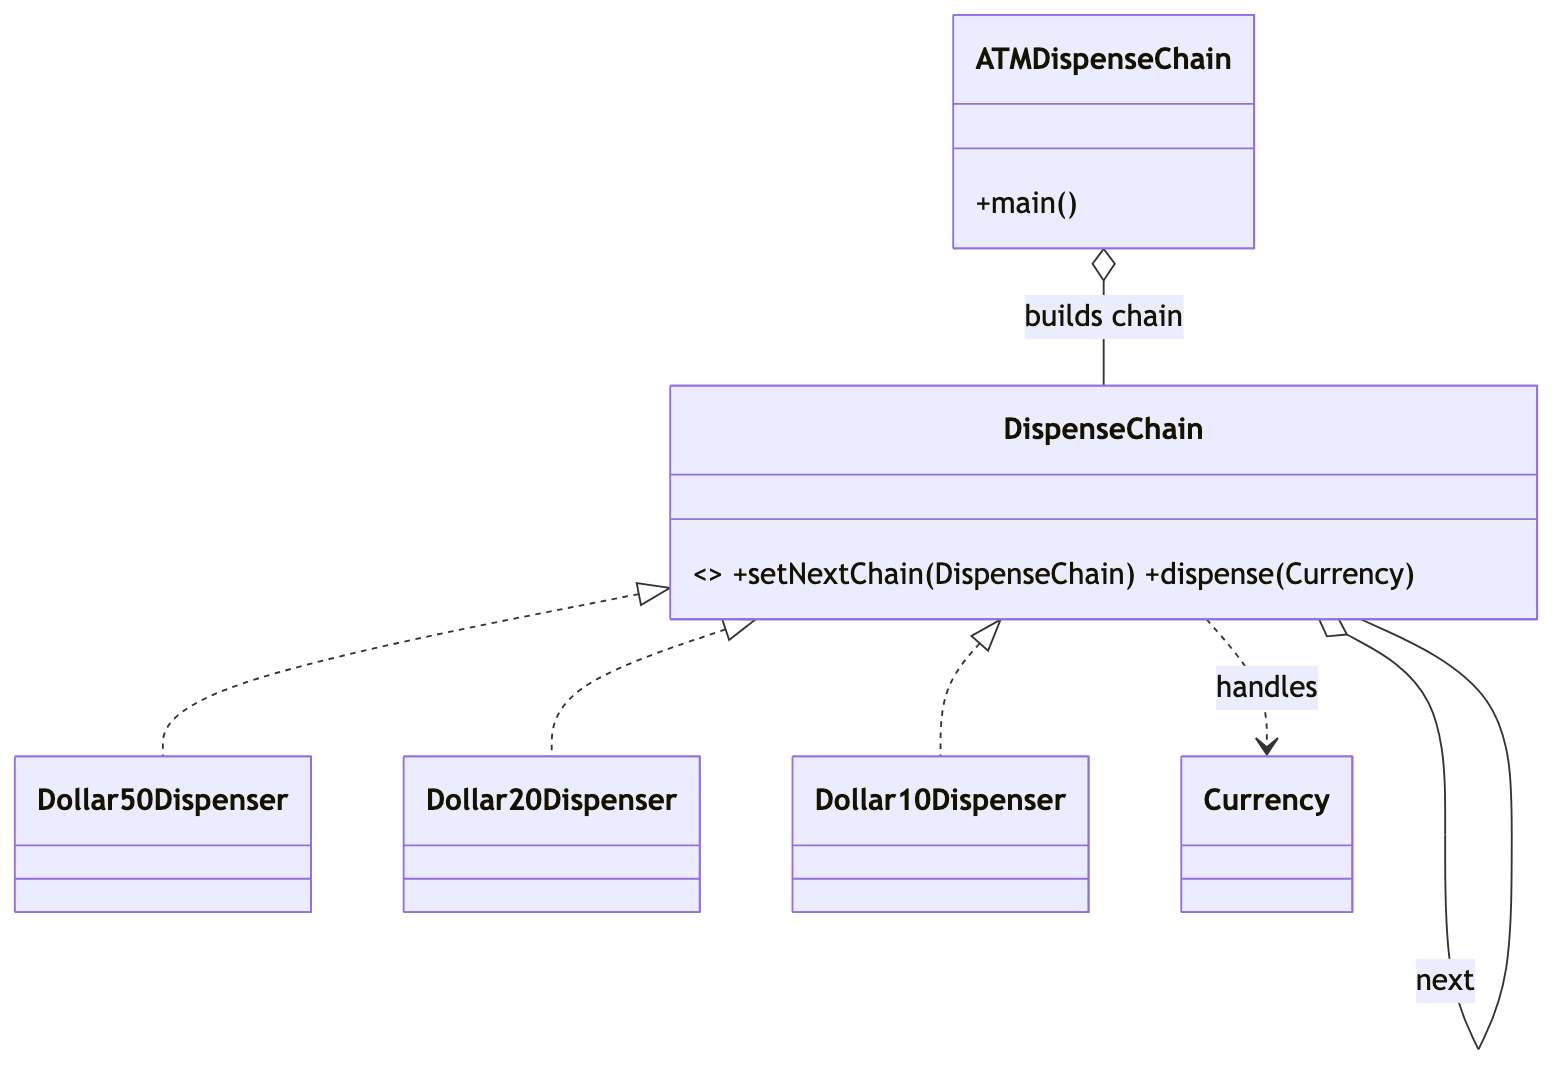
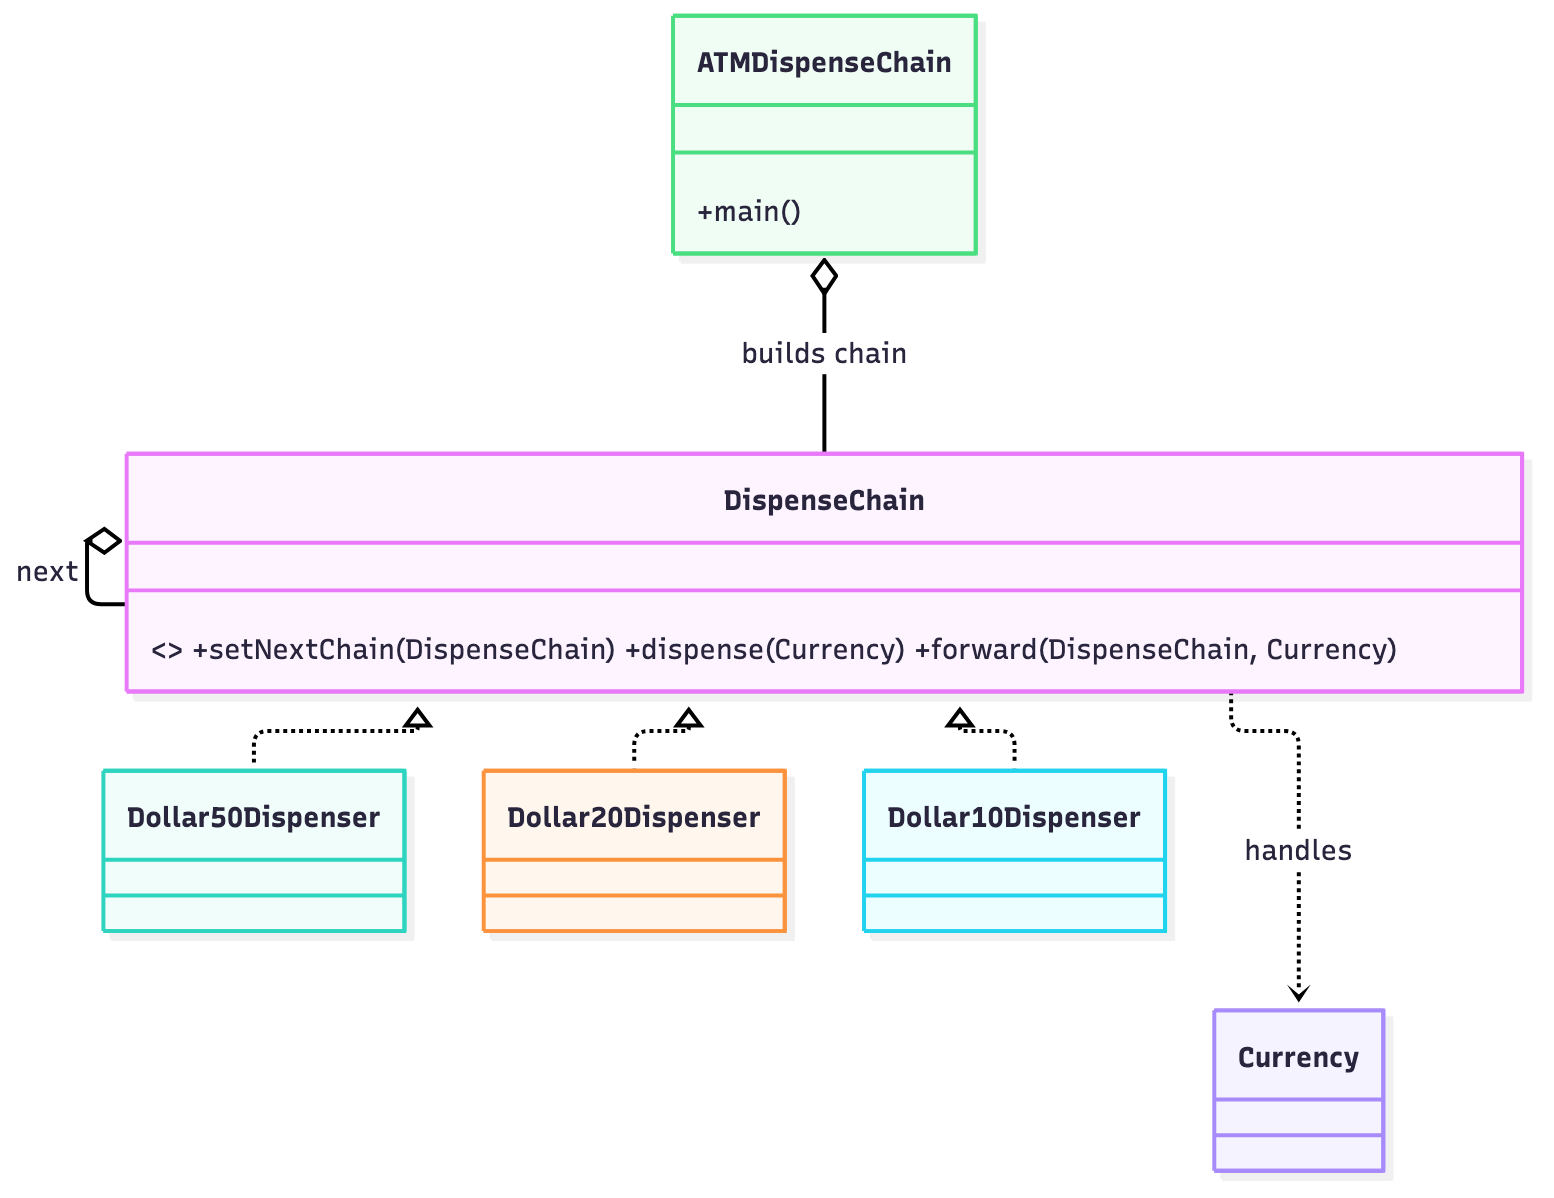
Fix Chain of Responsibility's terminal-handler NPE risk
Dollar10Dispenser is the last link in the ATM chain (ATMDispenseChain
never calls setNextChain on it), so its `chain` field is null. Every
dispenser still forwarded with a bare this.chain.dispense(cur), which
only avoided crashing because the caller validated "amount is a
multiple of 10" beforehand - not because the chain actually handled
running off its end. A direct call, a different denomination set, or a
removed validation step would NPE.

Added a shared default forward(DispenseChain next, Currency cur) on
DispenseChain that every dispenser now calls instead: forwards to next
if present, otherwise reports "cannot dispense" instead of throwing.
README and its Mermaid source updated with a new "Handling the end of
the chain" section explaining the fix; diagrams regenerated to include
the new method.

diff --git a/src/MachineCoding_LLD/DesignPatterns/_07_ChainOfResponsibility/DispenseChain.java b/src/MachineCoding_LLD/DesignPatterns/_07_ChainOfResponsibility/DispenseChain.java
@@ -5,4 +5,18 @@ public interface DispenseChain {
     void setNextChain(DispenseChain nextChain);
 
     void dispense(Currency cur);
+
+    /**
+     * Forward to the next link if there is one; otherwise this is the end of the chain, so fail
+     * loudly instead of NPEing on a null {@code next}. Whichever dispenser ends up last in the
+     * chain relies on this instead of assuming a next link always exists.
+     */
+    default void forward(DispenseChain next, Currency cur) {
+        if (next != null) {
+            next.dispense(cur);
+        } else if (cur.getAmount() != 0) {
+            System.out.println("Cannot dispense remaining $" + cur.getAmount()
+                    + " - no smaller denomination available");
+        }
+    }
 }

diff --git a/src/MachineCoding_LLD/DesignPatterns/_07_ChainOfResponsibility/Dollar10Dispenser.java b/src/MachineCoding_LLD/DesignPatterns/_07_ChainOfResponsibility/Dollar10Dispenser.java
@@ -15,9 +15,9 @@ public class Dollar10Dispenser implements DispenseChain {
             int num = cur.getAmount()/10;
             int remainder = cur.getAmount() % 10;
             System.out.println("Dispensing "+num+" 10$ note");
-            if(remainder !=0) this.chain.dispense(new Currency(remainder));
+            if(remainder !=0) forward(this.chain, new Currency(remainder));
         }else{
-            this.chain.dispense(cur);
+            forward(this.chain, cur);
         }
     }
 

diff --git a/src/MachineCoding_LLD/DesignPatterns/_07_ChainOfResponsibility/Dollar50Dispenser.java b/src/MachineCoding_LLD/DesignPatterns/_07_ChainOfResponsibility/Dollar50Dispenser.java
@@ -15,9 +15,9 @@ public class Dollar50Dispenser implements DispenseChain {
             int num = cur.getAmount()/50;
             int remainder = cur.getAmount() % 50;
             System.out.println("Dispensing "+num+" 50$ note");
-            if(remainder !=0) this.chain.dispense(new Currency(remainder));
+            if(remainder !=0) forward(this.chain, new Currency(remainder));
         }else{
-            this.chain.dispense(cur);
+            forward(this.chain, cur);
         }
     }
 

diff --git a/src/MachineCoding_LLD/DesignPatterns/_07_ChainOfResponsibility/Dollar20Dispenser.java b/src/MachineCoding_LLD/DesignPatterns/_07_ChainOfResponsibility/Dollar20Dispenser.java
@@ -15,9 +15,9 @@ public class Dollar20Dispenser implements DispenseChain{
             int num = cur.getAmount()/20;
             int remainder = cur.getAmount() % 20;
             System.out.println("Dispensing "+num+" 20$ note");
-            if(remainder !=0) this.chain.dispense(new Currency(remainder));
+            if(remainder !=0) forward(this.chain, new Currency(remainder));
         }else{
-            this.chain.dispense(cur);
+            forward(this.chain, cur);
         }
     }
 

diff --git a/src/MachineCoding_LLD/DesignPatterns/_07_ChainOfResponsibility/assets/README-source.md b/src/MachineCoding_LLD/DesignPatterns/_07_ChainOfResponsibility/assets/README-source.md
@@ -29,7 +29,7 @@ passes the remainder to `$20`, then `$10`.
 
 ```mermaid
 classDiagram
-    class DispenseChain { <<interface>> +setNextChain(DispenseChain) +dispense(Currency) }
+    class DispenseChain { <<interface>> +setNextChain(DispenseChain) +dispense(Currency) +forward(DispenseChain, Currency) }
     class Dollar50Dispenser
     class Dollar20Dispenser
     class Dollar10Dispenser
@@ -46,6 +46,21 @@ classDiagram
 
 **Roles:** `DispenseChain` = Handler · `Dollar50/20/10Dispenser` = ConcreteHandlers
 · `ATMDispenseChain` = Client (wires `$50 -> $20 -> $10`) · `Currency` = request.
+
+## Handling the end of the chain
+
+Every handler used to forward with a bare `this.chain.dispense(cur)`. That's fine for
+`$50`/`$20`, but `$10` is the *last* link — `ATMDispenseChain` never calls
+`setNextChain` on it, so its `chain` field is `null`. The old code still tried to call
+`.dispense()` on that `null`, which only avoided crashing because the caller happened to
+validate "amount is a multiple of 10" beforehand, making the dangerous branch
+unreachable in practice — not because the chain actually handled running off its end.
+
+The fix is a shared `default void forward(DispenseChain next, Currency cur)` on
+`DispenseChain` that every dispenser calls instead of forwarding directly: if `next` is
+`null`, it reports "can't dispense the remainder" instead of throwing. **A terminal
+handler in Chain of Responsibility must actually terminate the chain — not silently
+assume there's always a next link.**
 
 ## Run
 

diff --git a/src/MachineCoding_LLD/DesignPatterns/_07_ChainOfResponsibility/README.md b/src/MachineCoding_LLD/DesignPatterns/_07_ChainOfResponsibility/README.md
@@ -21,6 +21,21 @@ passes the remainder to `$20`, then `$10`.
 **Roles:** `DispenseChain` = Handler · `Dollar50/20/10Dispenser` = ConcreteHandlers
 · `ATMDispenseChain` = Client (wires `$50 -> $20 -> $10`) · `Currency` = request.
 
+## Handling the end of the chain
+
+Every handler used to forward with a bare `this.chain.dispense(cur)`. That's fine for
+`$50`/`$20`, but `$10` is the *last* link — `ATMDispenseChain` never calls
+`setNextChain` on it, so its `chain` field is `null`. The old code still tried to call
+`.dispense()` on that `null`, which only avoided crashing because the caller happened to
+validate "amount is a multiple of 10" beforehand, making the dangerous branch
+unreachable in practice — not because the chain actually handled running off its end.
+
+The fix is a shared `default void forward(DispenseChain next, Currency cur)` on
+`DispenseChain` that every dispenser calls instead of forwarding directly: if `next` is
+`null`, it reports "can't dispense the remainder" instead of throwing. **A terminal
+handler in Chain of Responsibility must actually terminate the chain — not silently
+assume there's always a next link.**
+
 ## Run
 
 ```
